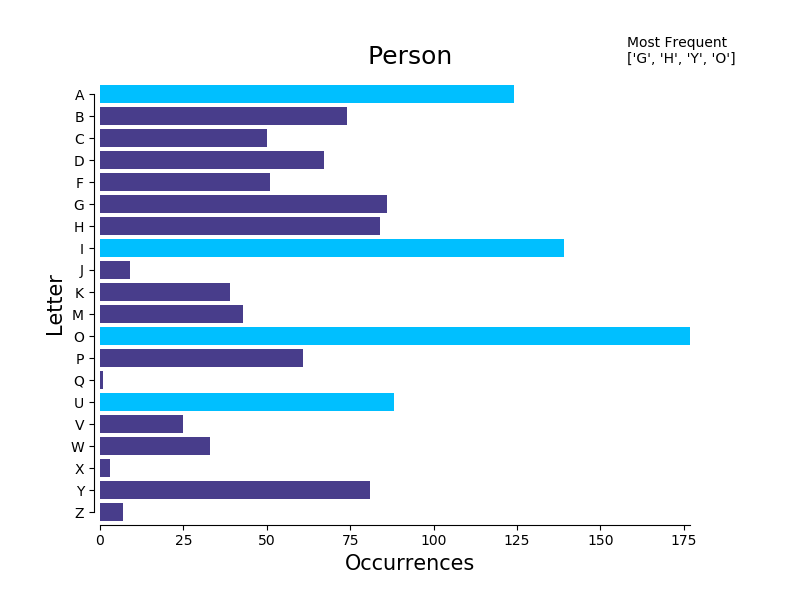
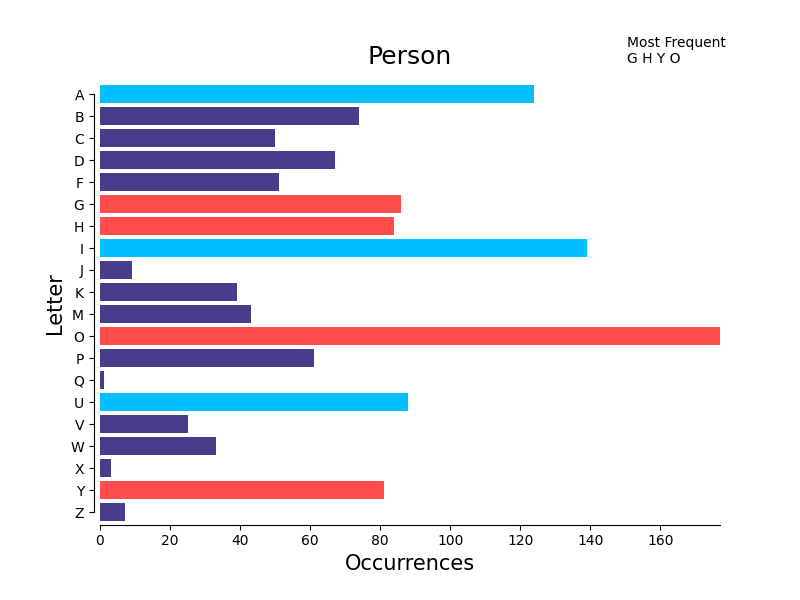
cleaned up letter graphs

diff --git a/analysis.py b/analysis.py
@@ -1,9 +1,6 @@
-# TODO analyze based on category, note weird categories in README
 # TODO compare actual guessed letters with best letters
 # TODO write functions to print categories and letters
-# TODO organize code
 # TODO comment
-# TODO remove spaces from image names
 
 
 import pandas
@@ -23,26 +20,8 @@ def guessed_letter_occurrence():
   letters = letters.dropna()
   print(letters.stack().value_counts())
 
-def print_overall_letter_occurrence():
-  puzzles = df['Puzzle']
-  alphabet = ['A', 'B', 'C', 'D', 'F', 'G', 'H', 'I', 'J', 'K', 'M', 'O', 'P', 'Q', 'U', 'V', 'W', 'X', 'Y', 'Z']
-  count_list = []
 
-  for letter in alphabet:
-    count_list.append(puzzles.str.count(letter).sum())
-
-  print_barh_graph(alphabet, count_list, savename="Letters")
-
-def print_barh_graph(keys,values,savename="image.png",most_frequent_l=[]):
-  # set the colors of the bars
-  # vowels are colored lighter if it is a category graph
-  bar_colors = ['#483D8B']*20
-  light_blue = '#00BFFF' 
-  bar_colors[0] = light_blue
-  bar_colors[7] = light_blue
-  bar_colors[11] = light_blue
-  bar_colors[14] = light_blue
-
+def print_barh_graph(keys,values,savename="image.png",bar_colors='black',label=None):
   # instantiate figure and axes
   # also set figure size
   fig, ax = plt.subplots(figsize=(8,6))
@@ -69,15 +48,15 @@ def print_barh_graph(keys,values,savename="image.png",most_frequent_l=[]):
   ax.spines['left'].set_bounds(0, (len(keys)-1))
 
   # set prettier bounds on x axis
-  ax.spines['bottom'].set_smart_bounds(True)
+  ax.margins(0)
 
   # adjust placement of axes
   ax.spines['bottom'].set_position(('axes', 0.02))
   ax.spines['left'].set_position(('axes', -0.01))
 
-  # if this is a category plot, add a text with the 3 most common consonants and the most common vowel
-  if len(most_frequent_l)>0: 
-    plt.text(0.85, 1.02, 'Most Frequent\n' + str(most_frequent_l), transform=plt.gca().transAxes)
+  # display the label
+  if label:
+    plt.text(0.85, 1.02, 'Most Frequent\n' + label, transform=plt.gca().transAxes)
 
   # invert the axis so A is on top and Z is on the bottom
   plt.gca().invert_yaxis()
@@ -112,43 +91,92 @@ def get_most_frequent_vowel(counter):
   
   return top_vowel
 
-def print_letter_occurrence_per_puzzle():
-  def remove_counter_character(char):
-    if char in counter:
-      counter.pop(char)
+# prints a graph that is the sum of all letter occurrences in all puzzles
+def print_overall_letter_occurrence():
+  puzzles = df['Puzzle']
+  alphabet = ['A', 'B', 'C', 'D', 'F', 'G', 'H', 'I', 'J', 'K', 'M', 'O', 'P', 'Q', 'U', 'V', 'W', 'X', 'Y', 'Z']
+  count_list = []
 
+  # set bar colors
+  bar_colors = ['#483D8B']*26
+  # vowels are light blue
+  light_blue = '#00BFFF' 
+  # color vowels differently
+  vowels = ['A','E','I','O','U']
+  for i,letter in enumerate(alphabet):
+    if letter in vowels:
+      bar_colors[i] = light_blue
+
+  # get values for plotting (x-axis)
+  for letter in alphabet:
+    count_list.append(puzzles.str.count(letter).sum())
+
+  print_barh_graph(alphabet, count_list, savename="Letters", bar_colors=bar_colors)
+
+# prints a graph for each Category displaying the frequency of each
+# letter in the puzzles in that Category
+def print_letter_occurrence_per_puzzle():
+  # subclass Counter class
+  class my_counter(Counter):
+    # add method to check if a char exists, then remove it
+    def remove_counter_character(self, char):
+      if char in self:
+        self.pop(char)
+
+  # loop through each category in the dataframe
   for category in df['Category'].unique():
-    counter = Counter(A=0, B=0, C=0, D=0, F=0, G=0, H=0, I=0, J=0, K=0, M=0, O=0, P=0, Q=0, U=0, V=0, W=0, X=0, Y=0, Z=0)
+    # create a counter that counts every letter in the alphabet
+    counter = my_counter(A=0, B=0, C=0, D=0, F=0, G=0, H=0, I=0, J=0, K=0, M=0, O=0, P=0, Q=0, U=0, V=0, W=0, X=0, Y=0, Z=0)
     puzzles = df.loc[df['Category'] == category, 'Puzzle']
+    # count the letter occurrences in each puzzle
     for row in puzzles:
       counter.update(row)
 
-    remove_counter_character('?')
-    remove_counter_character('&')
-    remove_counter_character('\'')
-    remove_counter_character('-')
-    remove_counter_character(' ')
-    remove_counter_character('R')
-    remove_counter_character('S')
-    remove_counter_character('T')
-    remove_counter_character('L')
-    remove_counter_character('N')
-    remove_counter_character('E')
+    # remove all punctuation and given letters
+    counter.remove_counter_character('?')
+    counter.remove_counter_character('&')
+    counter.remove_counter_character('\'')
+    counter.remove_counter_character('-')
+    counter.remove_counter_character(' ')
+    counter.remove_counter_character('R')
+    counter.remove_counter_character('S')
+    counter.remove_counter_character('T')
+    counter.remove_counter_character('L')
+    counter.remove_counter_character('N')
+    counter.remove_counter_character('E')
 
-    most_frequent_l = []
-    most_frequent_l += get_most_frequent_consonants(counter)
-    most_frequent_l += get_most_frequent_vowel(counter)
+    # put 3 most common consonants and most common vowel
+    # into a label to display on the graph
+    mfc = get_most_frequent_consonants(counter)
+    mfv = get_most_frequent_vowel(counter)
+    label = ' '.join([str(elem) for elem in mfc]) 
+    label += ' '
+    label += ' '.join([str(elem) for elem in mfv]) 
 
+    # extract keys and values from Counter object
     count_list = list(counter.items())
     count_list = [list(i) for i in count_list]
     count_list.sort()
     keys = [i[0] for i in count_list]
     values = [i[1] for i in count_list]
 
-    # remove spaces from save name
-    category = category.replace(' ', '_')
-
-    print_barh_graph(keys,values,savename=category,most_frequent_l=most_frequent_l)
+    # set bar colors
+    bar_colors = ['#483D8B'] * 26
+    # vowels are light blue
+    light_blue = '#00BFFF' 
+    # most common letters are red
+    red = '#FF4C4C'
+    # given letters are faded
+    fade = '30'
+    # lists
+    vowels = ['A','E','I','O','U'] 
+    for i,letter in enumerate(keys):
+      if letter in vowels:
+        bar_colors[i] = light_blue
+      if letter in mfc or letter in mfv:
+        bar_colors[i] = red
+    
+    print_barh_graph(keys,values,savename=category,bar_colors=bar_colors,label=label)
 
 print_overall_letter_occurrence()
 #print_category_occurrence()
